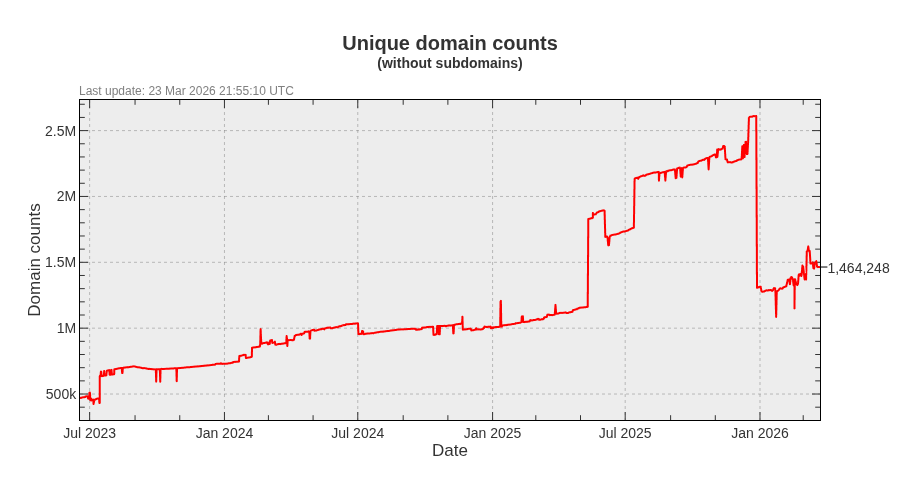
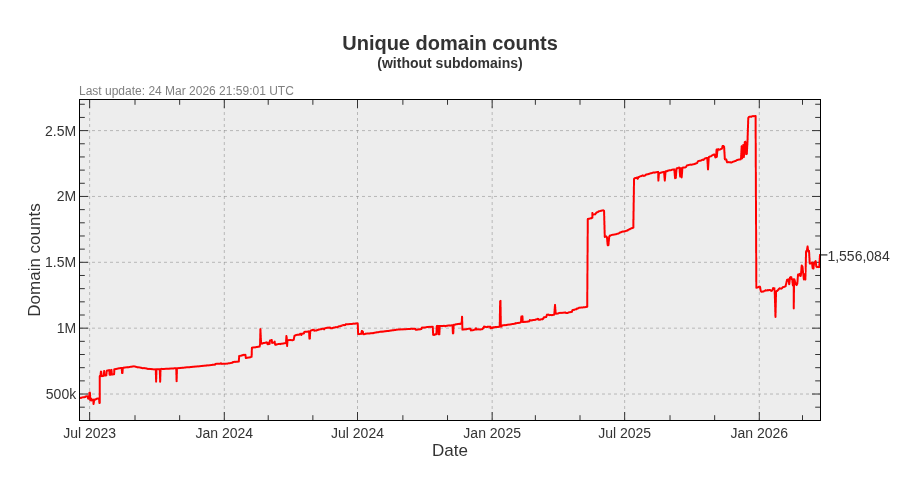
Update pages

diff --git a/README.md b/README.md
@@ -3,22 +3,22 @@ A blocklist file for blocking ads, trackers and malware domains.
 
[1 lines of base64/hex data omitted]
 
-- Unique domains: 2,127,233
-- Without subdomains: 1,464,248
-- Last update: 23 Mar 2026 21:55:10 UTC
-- Version: 2026.03.23.01
+- Unique domains: 2,221,274
+- Without subdomains: 1,556,084
+- Last update: 24 Mar 2026 21:59:01 UTC
+- Version: 2026.03.24.01
 
 
 ## Downloads:
 
 | Format             | Domain count      | Download Link |
 |------------------ | -----------------|-------------|
-| *Adblock Plus*     | 1,464,248 | [Download](https://dl.cenk.app/bad-hosts/bad-hosts-abp) |
-| *Wildcard domains* | 1,464,248 | [Download](https://dl.cenk.app/bad-hosts/bad-hosts-wildcard) |
-| *dnsmasq*          | 1,464,248 | [Download](https://dl.cenk.app/bad-hosts/bad-hosts-dnsmasq) |
-| *hosts*            | 2,127,233 | [Download](https://dl.cenk.app/bad-hosts/hosts) |
-| *hosts (ipv6)*     | 2,127,233 | [Download](https://dl.cenk.app/bad-hosts/hosts-ipv6) |
-| *Plain domains*    | 2,127,233 | [Download](https://dl.cenk.app/bad-hosts/bad-hosts-domains) |
+| *Adblock Plus*     | 1,556,084 | [Download](https://dl.cenk.app/bad-hosts/bad-hosts-abp) |
+| *Wildcard domains* | 1,556,084 | [Download](https://dl.cenk.app/bad-hosts/bad-hosts-wildcard) |
+| *dnsmasq*          | 1,556,084 | [Download](https://dl.cenk.app/bad-hosts/bad-hosts-dnsmasq) |
+| *hosts*            | 2,221,274 | [Download](https://dl.cenk.app/bad-hosts/hosts) |
+| *hosts (ipv6)*     | 2,221,274 | [Download](https://dl.cenk.app/bad-hosts/hosts-ipv6) |
+| *Plain domains*    | 2,221,274 | [Download](https://dl.cenk.app/bad-hosts/bad-hosts-domains) |
 
 ## Domain count history
 ### With subdomains
